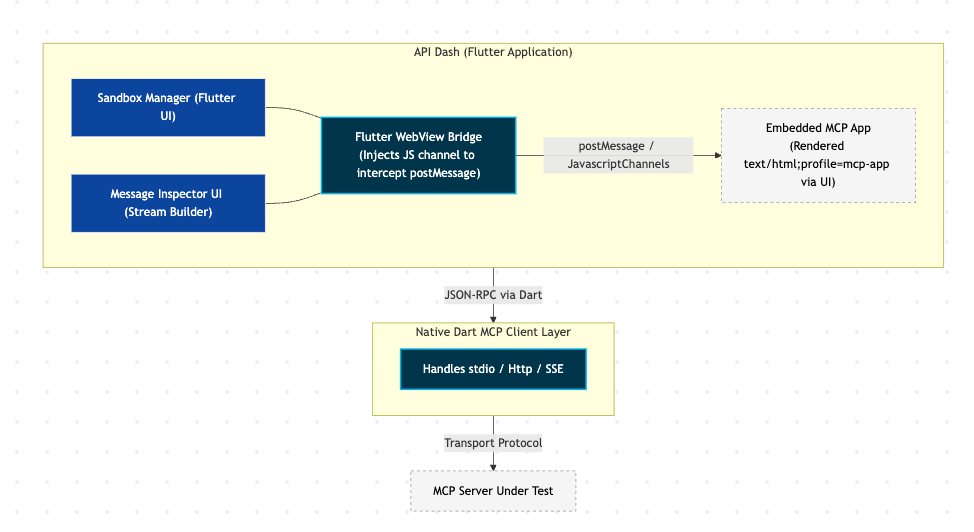
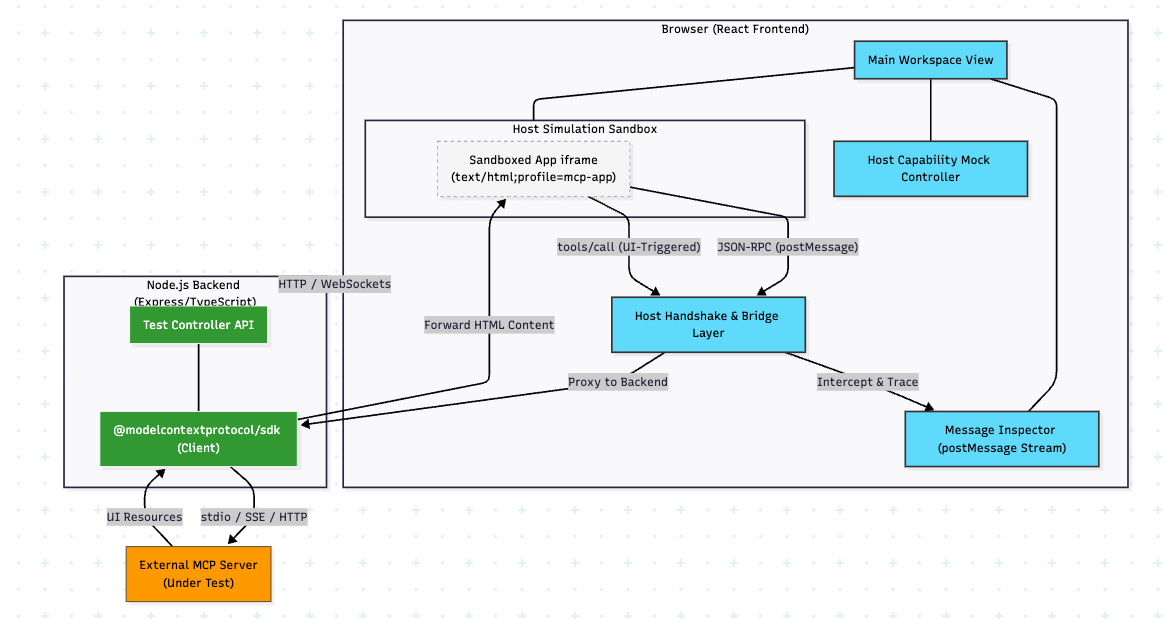
Fix: Rephrased this idea to use React/Typescript

diff --git a/doc/proposals/2026/gsoc/idea_ikeoffiah_mcp_apps_testing.md b/doc/proposals/2026/gsoc/idea_ikeoffiah_mcp_apps_testing.md
@@ -6,14 +6,14 @@
 **Year:** Graduated  
 **Expected graduation date:** 2019  
 
-**Project Title:** Native MCP Apps Sandbox & Testing Suite  
+**Project Title:** MCPApps Tester — A Dedicated Testing & Debugging Environment for MCP Apps  
 **Relevant issues:** https://github.com/foss42/apidash/discussions/1225  
 
 ## Idea description
 
-This proposal introduces a **Native MCP Apps Sandbox** built directly into API Dash. Unlike traditional MCP testing tools that focus solely on backend primitives (Tools, Resources, Prompts), this project specifically targets **testing MCP Apps** — the new sandboxed, interactive UI extensions of MCP.
+This proposal introduces **MCPApps Tester**, a dedicated web-based testing and debugging environment for **MCP Apps**. While other proposals focus on testing standard MCP backend primitives (Tools, Resources, Prompts), this project specifically addresses a major gap in the ecosystem: the lack of tooling to validate the rich, interactive UI extensions of MCP servers.
 
-By building a deeply integrated module within API Dash using **Flutter's native WebView capabilities**, developers will get a zero-setup, cohesive testing environment to interact with both MCP servers and their UI layers without needing a separate web application.
+By building this suite using **React, Node, and TypeScript**, the project aligns with the core MCP developer ecosystem and the specific tech stack preferences mentioned in the official GSoC discussion.
 
 ---
 
@@ -28,71 +28,63 @@ MCP Apps allow MCP servers to deliver **interactive, sandboxed iframe-based UIs*
 
 ---
 
-## Proposed Solution: Native Flutter MCP Apps Sandbox
+## Proposed Solution: MCPApps Tester (React/Node Suite)
 
-A new, dedicated **MCP Sandbox Module** built directly into the API Dash Flutter application. It will act as a simulated AI host capable of loading, rendering, and comprehensively testing MCP Apps without leaving the API Dash window.
+A standalone web application that acts as a **simulated MCP host environment** capable of loading, rendering, and comprehensively testing MCP Apps.
 
 ### Core Architecture
 
 ![Architecture Diagram](images/native_mcp_app_sandbox_architecture.png)
 
 **Architecture Description:**
-The system integrates directly into the existing **API Dash** application natively. It consists of three primary layers:
-1. **API Dash UI Layer:** A Flutter-based "Sandbox Manager" provides the controls for connection and tool selection, while the "Message Inspector UI" streams the live JSON-RPC activity.
-2. **Flutter WebView Bridge:** This layer uses platform native webviews to render the embedded MCP App UI (`text/html;profile=mcp-app`) securely inside API Dash. It injects JavascriptChannels to actively intercept and map all `postMessage` protocol communication between the sandboxed UI and the host.
-3. **Native Dart MCP Client Layer:** A Dart client module that handles the underlying transport protocol (`stdio` or `Http/SSE`) straight through to the "MCP Server Under Test". When an action occurs in the WebView, this native layer intercepts it and transparently acts as the host bridge to the server.
+The system is built as a **React + Express** application that bridges the developer and any MCP server:
+1. **React Frontend:** Provides a "Sandbox Loader" for the MCP App iframe and a real-time "Message Inspector" to visualize JSON-RPC traffic.
+2. **Host Simulation Layer:** Intercepts `postMessage` calls from the sandboxed iframe, simulating the handshake and host capabilities (`open_link`, etc.).
+3. **Node/TypeScript Backend:** Uses the official `@modelcontextprotocol/sdk` to connect to the MCP server (via stdio or SSE), fetches UI resources, and forwards tool calls initiated from the UI.
 
 ---
 
 ## Key Features
 
-### Feature 1 — Native MCP Client & App Discovery
-Built purely in Dart, the client connects to local or remote MCP servers via `stdio` or HTTP/SSE. It auto-discovers capabilities and identifies specific UI resources bound to tools (the `_meta.ui.resourceUri` pattern). 
+### Feature 1 — MCP App Discovery & Loader
+Connect to any MCP server and auto-discover tools with UI bindings (`_meta.ui.resourceUri`). It fetches the HTML resource and renders it in a spec-compliant sandboxed iframe.
 
-### Feature 2 — Secure WebView Sandbox
-Instead of using an HTML iframe in a React app, this uses Flutter's native webview capabilities (`webview_flutter` or desktop equivalents) to securely render the MCP App's HTML resource inline within API Dash. It acts as the "host" surface.
+### Feature 2 — Simulated Host & Handshake
+The suite implements the full MCP Apps host protocol, handling the `ui/initialize` handshake and responding with configurable `hostContext` and capabilities.
 
-### Feature 3 — Dart-JS Interop Message Inspector
-Through Flutter's JavascriptChannels, the application intercepts every `postMessage` sent from the MCP App to the host window. These messages are serialized and streamed to a beautiful, native Flutter timeline UI, showing:
-- Direction (Host → App, App → Host)
-- Method names and parameters
-- Round-trip latency
+### Feature 3 — Bidirectional Message Inspector
+A live, filterable stream of every `postMessage` exchanged between the host and the MCP App iframe. This makes the opaque communication layer completely transparent for debugging.
 
-### Feature 4 — Flutter-Mocked Host Capabilities
-When the loaded MCP App requests something from the host (e.g., `open_link`), the Flutter app catches it. The developer can configure the API Dash Sandbox to:
-- **Auto-Allow:** e.g., natively open the link using `url_launcher`.
-- **Auto-Deny:** Simulate a restricted host, ensuring the MCP app handles the rejection gracefully without crashing.
-- **Mock:** Simulate `add_message_to_chat` by showing a mock chat bubble in the test dashboard.
+### Feature 4 — Host Capability Mocking
+A UI panel to pre-configure how the simulated host responds to capability calls. Developers can test "Auto-Allow" or "Auto-Deny" scenarios to ensure their UI handles host restrictions gracefully.
 
-### Feature 5 — Bridging tools/call from the UI
-If a developer clicks a "Submit" button inside the rendered MCP App, the app requests the host to execute `tools/call`. The Dart client intercepts this, performs the actual RPC call to the underlying MCP Server, and routes the response back into the WebView. This allows end-to-end testing of UI-driven tool execution.
+### Feature 5 — UI-to-Backend Tool Tracing
+When a user interacts with the rendered MCP App (e.g., clicking "Submit"), the suite traces the resulting `tools/call` all the way to the backend MCP server and back, providing end-to-end visibility.
 
-### Feature 6 — Automated Protocol Compliance Runner
-A single-click Dart test runner that asserts:
-- Was `ui/initialize` dispatched under 3 seconds?
-- Is the MIME type exactly `text/html;profile=mcp-app`?
-- Does the App handle capability rejection without generating an unhandled promise rejection?
+### Feature 6 — Automated Protocol Compliance Checker
+A suite of automated checks to verify the MCP App follows the specification (handshake timing, MIME types, CSP safety, and JSON-RPC 2.0 validity).
 
 ---
 
 ## Implementation Plan & Milestones
 
-### Milestone 1 — Dart MCP Client & Core Connectivity
-- Implement JSON-RPC 2.0 communication over `stdio` and HTTP/SSE natively in Dart.
-- Add support for discovering resources and tool schemas.
-- Implement the fetch logic for `ui://` protocols.
+### Milestone 1 — MCP App Loader & Handshake Foundation
+- Setup Node/TS backend with the official MCP SDK.
+- Implement UI resource fetching and sandboxed iframe rendering.
+- Complete the host handshake protocol (`ui/initialize`).
 
-### Milestone 2 — WebView Integration & JavascriptChannel Bridge
-- Integrate a cross-platform WebView into API Dash's UI.
-- Implement the JavaScript interception layer to strictly capture `postMessage` events emitted by the MCP App.
-- Implement the `ui/initialize` → `ui/notifications/initialized` handshake.
+### Milestone 2 — Message Inspector & Mock Layer
+- Build the React Message Inspector to visualize `postMessage` traffic.
+- Implement the Host Capability Mocking panel.
+- Support forwarding UI-initiated `tools/call` to the server.
 
-### Milestone 3 — Inspector Dashboard & Capability Mocking
-- Build the Flutter UI panel for the real-time Message Inspector.
-- Build the settings panel to configure Host Capability behavior (Allow/Deny/Mock).
-- Wire up the UI-to-Backend `tools/call` forwarding logic.
+### Milestone 3 — Compliance Engine & Saved Scenarios
+- Build the automated compliance checker with 8+ protocol checks.
+- Implement a format for saving and replaying test scenarios.
+- Add support for exporting test traces as JSONL.
 
-### Milestone 4 — Compliance Engine & Polish
-- Implement the automated compliance test runner for verifying spec adherence.
-- Ensure cross-platform stability (macOS, Windows, Web/Linux where WebView permits).
-- Finalize documentation and create demo testing projects.
+### Milestone 4 — UI Polish & Documentation
+- Refine the React interface for a professional developer experience.
+- Finalize documentation, compliance scorecards, and demo examples.
+
+
